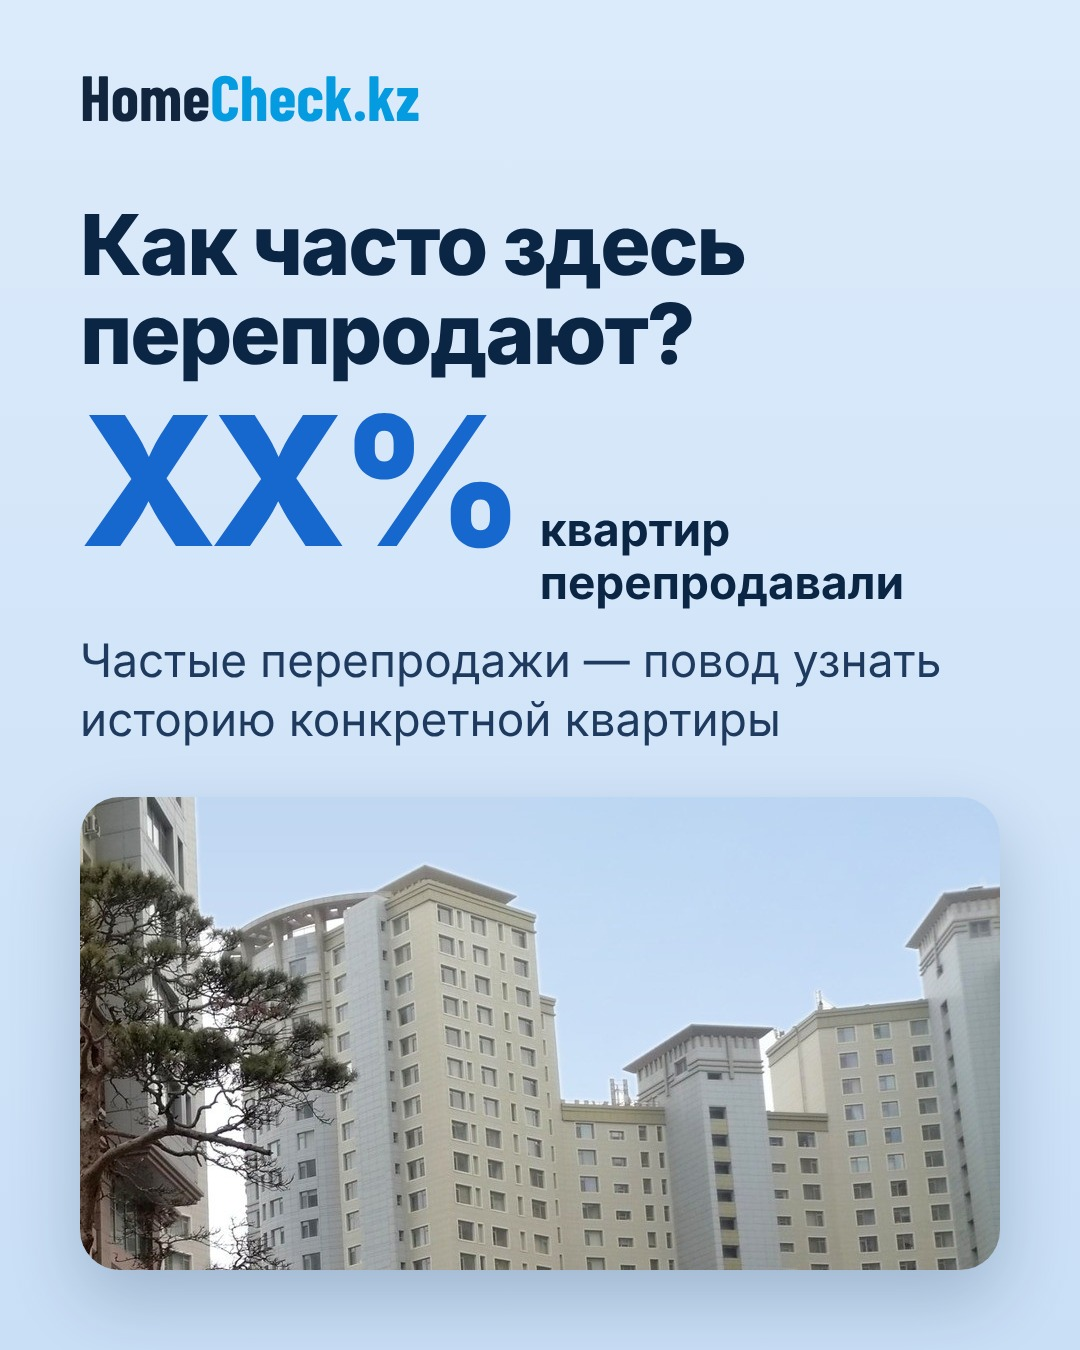
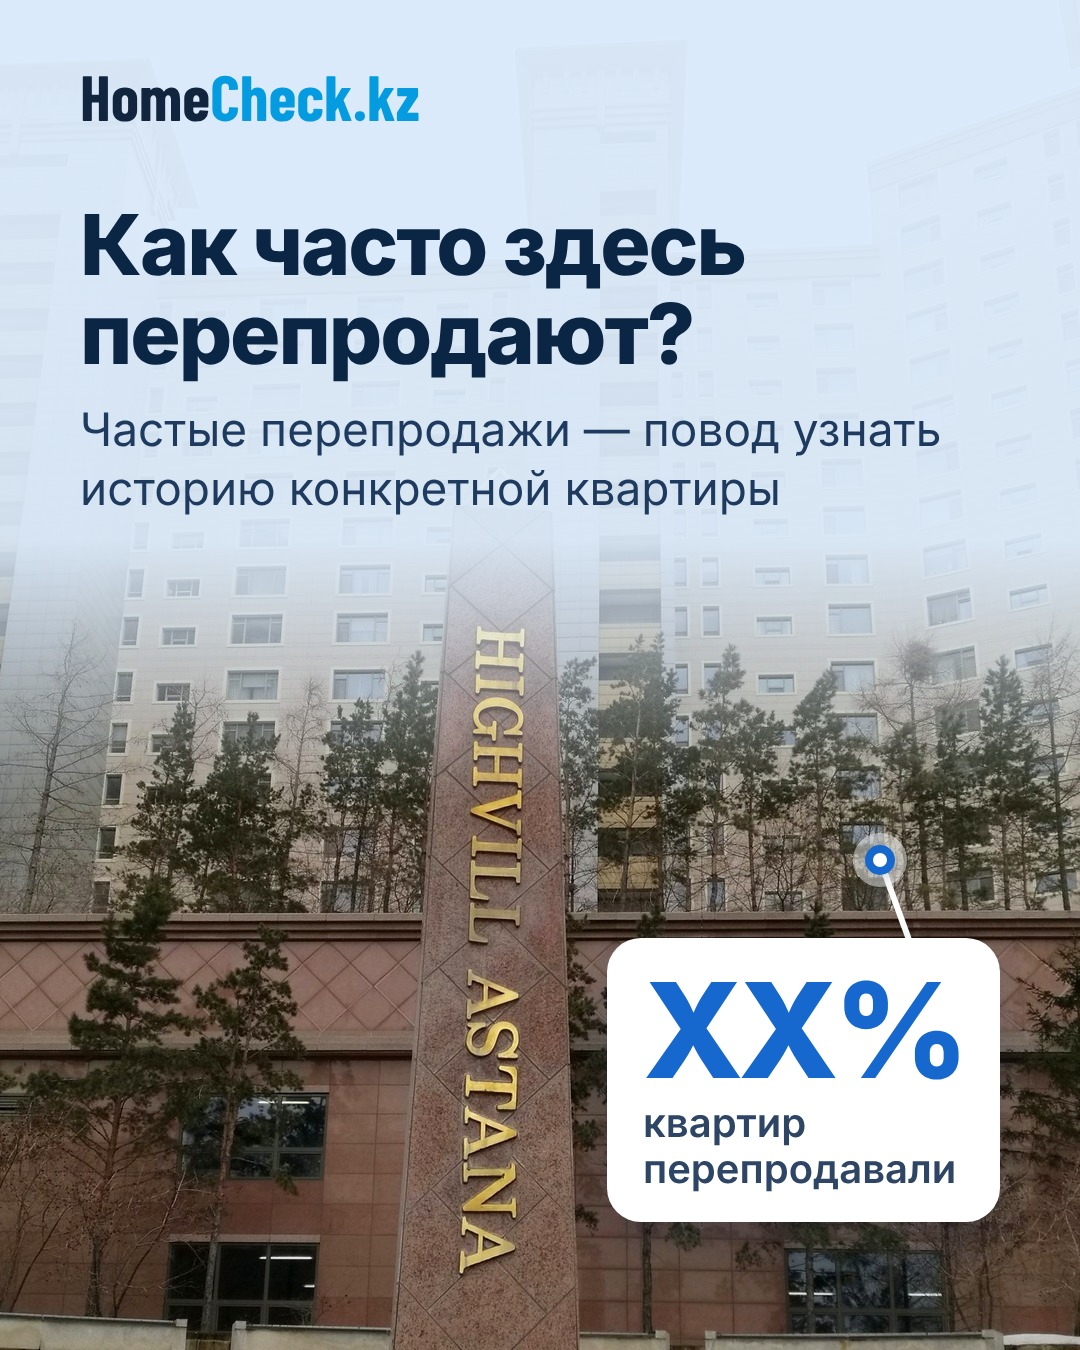
Хайвилл: v2 — фото на весь слайд, данные метками на фасаде
Claude-Session: https://claude.ai/code/session_01YPTRhbcfXRBnSeVtmn8ipe

diff --git a/posts/2026-11-15-hayvill-v-cifrah/build.py b/posts/2026-11-15-hayvill-v-cifrah/build.py
@@ -18,6 +18,7 @@ CSS = f"""
    background:linear-gradient(180deg,#DCEBFB 0%,#C9DFF6 100%)}}
 .bg{{position:absolute;inset:0;width:1080px;height:1350px;object-fit:cover}}
 .fade{{position:absolute;left:0;top:0;width:1080px;height:640px;background:linear-gradient(180deg,rgba(220,235,251,.97) 0%,rgba(220,235,251,.9) 45%,rgba(220,235,251,0) 100%)}}
+.fade2{{position:absolute;left:0;top:0;width:1080px;height:800px;background:linear-gradient(180deg,rgba(220,235,251,.96) 0px,rgba(220,235,251,.93) 540px,rgba(220,235,251,0) 800px)}}
 .logo{{position:absolute;left:80px;top:64px;font-family:'Barlow Condensed';font-size:64px;font-weight:700;line-height:1;z-index:5}}
 .logo .h{{color:#12253E}} .logo .c{{color:#049BE1}}
 .box{{position:absolute;left:80px;top:200px;width:920px;display:flex;flex-direction:column;z-index:4}}
@@ -54,10 +55,18 @@ def tag(x, y, n, l, px, py):
             f'<div class="tag" style="left:{x}px;top:{y}px;transform:translate({"-100%" if x > 540 else "0"},-50%)">'
             f'<div class="n">{n}</div><div class="l">{l}</div></div>')
 
-def data_slide(title, n, unit, line, photo):
-    return page(f'<div class="col"><div class="box"><h2 class="t">{title}</h2>'
-                f'<div class="num"><span class="n">{n}</span><span class="u">{unit}</span></div>'
-                f'<p class="p">{line}</p></div><img class="photo" src="{img(photo)}"></div>')
+def bigtag(x, y, n, l, px, py):
+    """Large data card centred-left at (x,y), pinned to the facade at (px,py)."""
+    return (f'<svg style="position:absolute;left:0;top:0;z-index:5" width="1080" height="1350">'
+            f'<line x1="{x - 40 if x > 700 else x + 40}" y1="{y}" x2="{px}" y2="{py}" stroke="#fff" stroke-width="6" stroke-linecap="round"/></svg>'
+            f'<div class="pin" style="left:{px}px;top:{py}px"></div>'
+            f'<div class="tag" style="left:{x}px;top:{y}px;transform:translate({"-100%" if x > 700 else "0"},-50%);padding:26px 36px 30px;border-radius:34px">'
+            f'<div class="n" style="font-size:132px;letter-spacing:-.04em">{n}</div><div class="l" style="font-size:40px;margin-top:4px">{l}</div></div>')
+
+def data_slide(bg, title, line, n, unit, x, y, px, py, fade=600):
+    return page(f'<img class="bg" src="{img(bg)}"><div class="fade2"></div>'
+                f'<div class="box"><h2 class="t">{title}</h2><p class="p">{line}</p></div>'
+                + bigtag(x, y, n, unit, px, py))
 
 SLIDES = [
     page(f'<img class="bg" src="{img("cover.jpg")}"><div class="fade" style="height:540px;opacity:.92"></div>'
@@ -65,11 +74,15 @@ SLIDES = [
          + tag(80, 640, 'XX', 'сделок за год', 470, 700)
          + tag(1000, 820, 'XX тыс. ₸', 'за м² по сделкам', 560, 870)
          + tag(80, 990, '+XX%', 'цена за год', 420, 1010)),
-    data_slide('Сколько квартир продали за&nbsp;год?', 'XX', 'сделок', 'Чем больше сделок, тем точнее понятна цена квартир в&nbsp;этом ЖК', 'c2.jpg'),
-    data_slide('Сколько стоит метр по&nbsp;сделкам?', 'XX', 'тыс. ₸<br>за м²', 'Ориентир, с&nbsp;которым можно сравнить цену квартиры здесь', 'c3.jpg'),
-    data_slide('Как изменилась цена за&nbsp;год?', '+XX%', 'за год', 'Так меняется стоимость жилья в&nbsp;этом ЖК', 'c4.jpg'),
-    data_slide('Как часто здесь перепродают?', 'XX%', 'квартир<br>перепродавали', 'Частые перепродажи — повод узнать историю конкретной квартиры', 'c5.jpg'),
-    page(f'<img class="bg" src="{img("final.jpg")}"><div class="fade" style="height:620px"></div>'
+    data_slide('b2.jpg', 'Сколько квартир продали за&nbsp;год?', 'Чем больше сделок, тем точнее понятна цена квартир в&nbsp;этом ЖК',
+               'XX', 'сделок за год', 80, 930, 640, 760),
+    data_slide('b3.jpg', 'Сколько стоит метр по&nbsp;сделкам?', 'Ориентир, с&nbsp;которым можно сравнить цену квартиры здесь',
+               'XX тыс. ₸', 'за м² по сделкам', 80, 960, 700, 820),
+    data_slide('b4.jpg', 'Как изменилась цена за&nbsp;год?', 'Так меняется стоимость жилья в&nbsp;этом ЖК',
+               '+XX%', 'цена за год', 520, 960, 330, 800),
+    data_slide('b5.jpg', 'Как часто здесь перепродают?', 'Частые перепродажи — повод узнать историю конкретной квартиры',
+               'XX%', 'квартир<br>перепродавали', 1000, 1080, 880, 860),
+    page(f'<img class="bg" src="{img("b6.jpg")}"><div class="fade" style="height:560px;opacity:.85"></div>'
          f'<div class="box"><h2 class="big">Узнайте данные своего ЖК</h2>'
          f'<p class="p"><b>Введите адрес на <span style="color:{BLUE}">homecheck.kz</span></b></p></div>'),
 ]

diff --git a/posts/2026-11-15-hayvill-v-cifrah/prep.py b/posts/2026-11-15-hayvill-v-cifrah/prep.py
@@ -39,6 +39,19 @@ if __name__ == '__main__':
     # final: obelisk with HIGHVILL ASTANA, 4:5
     fin = grade(Image.open(P2).crop((0, 120, 1449, 120 + 1811))).resize((1080, 1350), Image.LANCZOS)
     recolor_sky(fin).save(OUT / 'final.jpg', quality=92)
+    # full-bleed backgrounds for slides 2-6 (v2, 13.11). Low-res photos are upscaled with EDSR beforehand (UP dir)
+    def full(im, box, g=True, sky=False):
+        im = im.convert('RGB').crop(box)
+        im = grade(im) if g else im
+        im = im.resize((1080, 1350), Image.LANCZOS)
+        return recolor_sky(im) if sky else im
+    UP = pathlib.Path(sys.argv[2]) if len(sys.argv) > 2 else None
+    if UP:
+        full(Image.open(UP / 'p6.png'), (600, 0, 1800, 1500), g=False).save(OUT / 'b2.jpg', quality=92)   # fountain, summer
+        full(Image.open(UP / 'p3.png'), (0, 0, 1474, 1842), g=False).save(OUT / 'b4.jpg', quality=92)      # sunny towers
+        full(Image.open(UP / 'p5.png'), (275, 0, 1600, 1656), g=False).save(OUT / 'b6.jpg', quality=92)    # street, clouds
+    full(Image.open(P4), (520, 0, 1680, 1450), sky=True).save(OUT / 'b3.jpg', quality=92)                   # gate, no shop/people
+    full(Image.open(P2), (0, 0, 1449, 1811), sky=True).save(OUT / 'b5.jpg', quality=92)                     # towers + obelisk
     # cards 920x510 (≈1.8:1)
     card(P3, (0, 300, 828, 300 + 459), g=False).save(OUT / 'c2.jpg', quality=92)        # sunny towers
     card(P4, (440, 140, 1640, 140 + 666)).save(OUT / 'c3.jpg', quality=92)               # gate + pine, no people/shop
